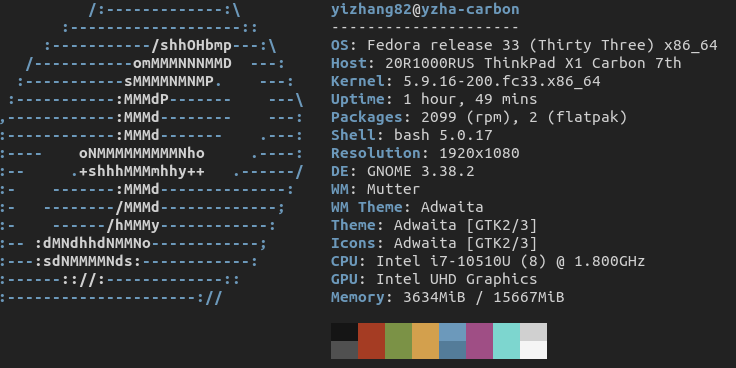
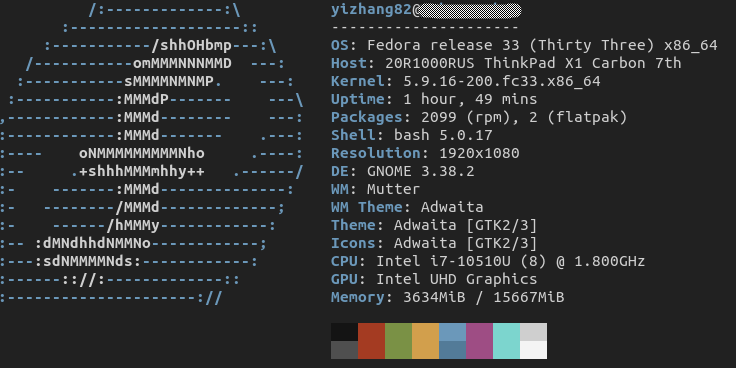
Publish lenovo-fedora

Changed region(s): [[0.5625, 0.0, 0.7188, 0.0598]]

diff --git a/_posts/2021-1-2-lenovo-fedora.md b/_posts/2021-1-2-lenovo-fedora.md
@@ -1,18 +1,21 @@
 ---
 layout: post
-title:  "Fedora 33 Workstation on X1 Carbon 7th gen"
-permalink: fedora-linux
+title:  "Putting Fedora 33 Workstation on X1 Carbon 7th gen"
+permalink: lenovo-fedora
 comments: true
 excerpt_separator: <!--more-->
 categories:
 - linux
+- setup
 ---
 
-I've had a Lenovo X1 Carbon 7th Gen for a while and tried putting Ubuntu 20.04 on it, but had quite a bit of trouble. Mostly the problem was this model has 4 speakers (two front and two bottom) so linux had quite a bit of trouble with it. The sound was tinny, and volume up / down doesn't work either. The microphone jack also pops. There are other minor issues like finger print sensor doesn't work, though I don't care about it much. There is [a long thread](https://forums.lenovo.com/t5/Ubuntu/Guide-X1-Carbon-7th-Generation-Ubuntu-compatability/td-p/4489823?page=1) discussing problems with ubuntu. I spend quite a while browsing forums and find some work arounds, but none are satisifactory. So I gave up and [went WSL2](/set-up-wsl2).
+I've had a [Lenovo X1 Carbon 7th gen](https://www.lenovo.com/us/en/laptops/thinkpad/thinkpad-x/X1-Carbon-Gen-7/p/22TP2TXX17G) for a while and tried putting Ubuntu 20.04 on it, but had quite a bit of trouble. Mostly the problem was this model has 4 speakers (two front and two bottom) so linux had quite a bit of trouble with it. The sound was tinny, and volume up / down doesn't work either. The microphone jack also pops. There are other minor issues like finger print sensor doesn't work, though I don't care about it much. There is [a long thread](https://forums.lenovo.com/t5/Ubuntu/Guide-X1-Carbon-7th-Generation-Ubuntu-compatability/td-p/4489823?page=1) discussing problems with ubuntu. I spend quite a while browsing forums and find some work arounds, but none are satisifactory. So I gave up and [went WSL2](/set-up-wsl2).
+
+<!--more-->
 
 WSL2 is basically a VM, so it works mostly quite well and is indistinguishable from a native linux, for the most part. However, it isn't quite smooth sailing either. It is still quit a bit slower. For example, starting vim takes a second or so while in native linux it is pretty much instant. It is also very memory hungry - it seems that it aggressively will take over all memory for I/O cache, usually not a problem if it were the only game in town, but it would slow down Windows as a result. I have a desktop machine with 32G and it'll happily push it over 80% in a memory intensive task such as compilation. Capping the memory consumption helps, though.
 
-After a while I've heard [Lenovo has been working with Fedora for ThinkPads](https://www.forbes.com/sites/jasonevangelho/2020/05/08/lenovo-has-2-awesome-surprises-for-linux-thinkpad-customers-in-2020/?sh=404aaf72399d), but didn't get a chance to try it out yet, until this week. I'm happy to report that putting Fedora Workstation 33 x64 works pretty much perfectly:
+After a while I've heard [Lenovo has been working with Fedora for ThinkPads](https://www.forbes.com/sites/jasonevangelho/2020/05/08/lenovo-has-2-awesome-surprises-for-linux-thinkpad-customers-in-2020/?sh=404aaf72399d), and Fedora 33 is out, so I'd like to give it a spin, but didn't get a chance to try it out yet until this week. I'm happy to report that putting Fedora Workstation 33 x64 works pretty much perfectly:
 * Wifi works out of the box
 * Suspend/Resume works fine - Lenovo seems to suggest the keep the sleep state in BIOS to Windows as Linux supports it these days
 * Audio works fine - all 4 speakers seems to work and microphone works well as well. Volumn buttons work as well
@@ -28,6 +31,8 @@ One thing that annoyed me is the "task bar" won't show up until I hover mouse to
 
 Putting the software I need on it is also relatively straight-forward. I have [dotfiles](https://github.com/yizhang82/dotfiles) that install vim/tmux/zsh for me and [install.sh](https://github.com/yizhang82/utils/blob/master/sys/linux/install.sh) install all the utilities - I did have to adapt it to use dnf and some libraries need different names, but that's pretty much it. Once installing VS Code and Chrome I'm good to go. I did run into a problem with Chrome 2nd window being super slow which seems to be a problem with wayland. Applying [a fix from stackoverflow post](https://unix.stackexchange.com/questions/612325/opening-two-chrome-windows-on-fedora-32-is-very-slow) fixed it for me.
 
-Overall I'm quite happy with Fedora 33 on X1 Carbon 7th Gen. Linux has certainly came a long way and it's great to see hardware manufacturers collaborating with Linux making the experience just work, so there are still hope. Unfortunately Linux desktop is still fragmented as ever, so maybe the year of linux desktop won't be quite there yet. Maybe we'll all end up with Chrome books and SSH to our dev boxes in the cloud - not quite there yet but not that far away either.
+![neofetch](/imgs/lenovo-fedora-2.png)
+
+Overall I'm quite happy with Fedora 33 on X1 Carbon 7th Gen. Linux has certainly came a long way and it's great to see hardware manufacturers collaborating with Linux making the experience just work, so there are still hope. Unfortunately Linux desktop is still fragmented as ever, so maybe the year of linux desktop won't be quite there yet. Who knows - maybe we'll all end up with Chrome books and SSH to our dev boxes in the cloud.
 
 
